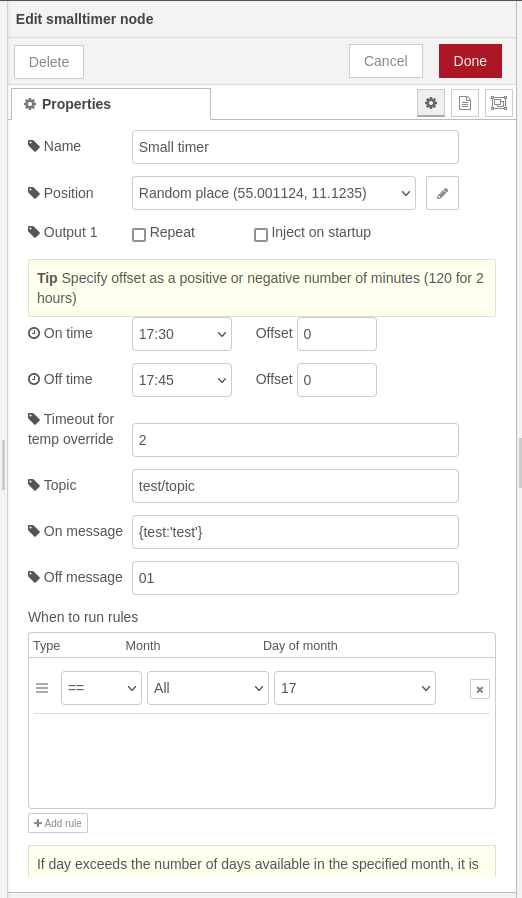
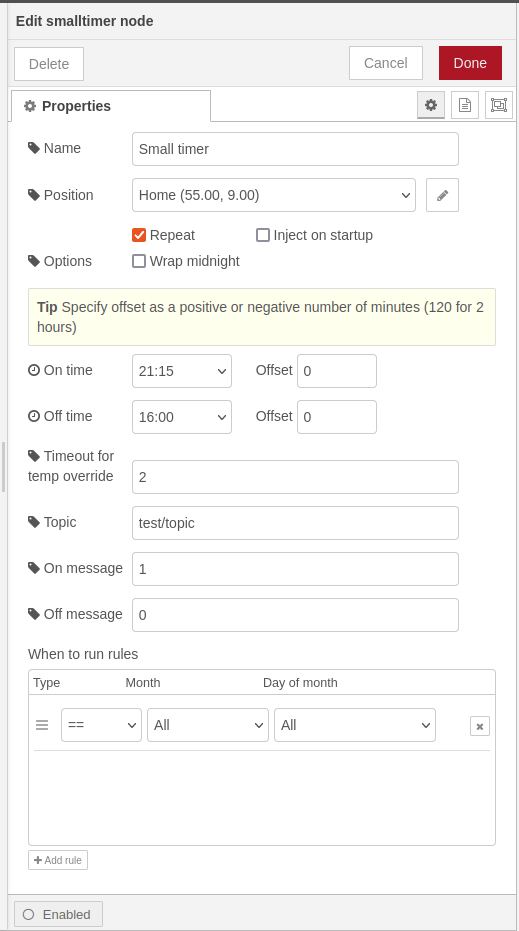
Add wrap midnight feature

Changed region(s): [[0.0, 0.0, 1.0, 1.0], [0.0308, 0.0, 0.3083, 0.0312], [0.0308, 0.1559, 0.185, 0.2183]]

diff --git a/src/nodes/small-timer.html b/src/nodes/small-timer.html
@@ -75,12 +75,18 @@
         <input type="text" id="node-input-position" placeholder="Position">
     </div>
     <div class="form-row">
-        <label><i class="fa fa-tag"></i> Output 1</label>
-        <input type="checkbox" style="width: auto !important" id="node-input-repeat">
-        <label for="node-input-repeat"> Repeat</label>
-        <input type="checkbox" style="width: auto !important" id="node-input-injectOnStartup">
-        <label for="node-input-injectOnStartup"> Inject on startup</label>
+        <label><i class="fa fa-tag"></i> Options</label>
+        <div style="display:inline-block;" class="small-timer-options">
+            <div>
+                <label><input type="checkbox" id="node-input-repeat"> Repeat</label>
+                <label><input type="checkbox" id="node-input-injectOnStartup"> Inject on startup</label>
+            </div>
+            <div>
+                <label><input type="checkbox" id="node-input-wrapMidnight" > Wrap midnight</label>
+            </div>
+        </div>
     </div>
+
     <div class="form-tips">
         <b>Tip</b> Specify offset as a positive or negative number of minutes (120 for 2 hours)
     </div>
@@ -124,6 +130,25 @@
         If day exceeds the number of days available in the specified month, it is considered to be the last day of the month.<br/>
     </div>
 </script>
+<style>
+    .small-timer-options label {
+        -webkit-user-select: none;
+        -khtml-user-select: none;
+        -moz-user-select: none;
+        -ms-user-select: none;
+        user-select: none;
+        vertical-align: baseline;
+        width: 120px !important;
+        white-space: nowrap;
+    }
+    .small-timer-options input {
+        width: auto !important;
+        vertical-align: baseline !important;
+    }
+    .form-tips {
+        margin-bottom: 8px;
+    }
+</style>
 
 <script type="text/javascript">
 (function() {
@@ -177,7 +202,7 @@
             repeat: {value: false, required: true},
             rules: {value: [{type: 'include', month: 0, day: 0}]},
             timeout: {value: 1440, required: true},
-            wrapMidnight: {value: false, required: false},
+            wrapMidnight: {value: true, required: false},
         },
         icon: "timer.png",
         inputs: 1,

diff --git a/src/lib/small-timer-runner.spec.ts b/src/lib/small-timer-runner.spec.ts
@@ -37,7 +37,8 @@ describe('small-timer/time-runner', () => {
         const stubbedTimeCalc = {
             getMinutesToNextStartEvent: sinon.stub(),
             getMinutesToNextEndEvent: sinon.stub(),
-            getOnState: sinon.stub().returns(false)
+            getOnState: sinon.stub().returns(false),
+            noOnStateToday: sinon.stub().returns(false)
         }
         return {
             send,
@@ -50,7 +51,22 @@ describe('small-timer/time-runner', () => {
         }
     }
 
-    it('should handLE temporary on and use timeout to calculate next change', () => {
+    it('should handle no action today, due to negative on interval', () => {
+        const stubs = setupTest()
+        stubs.timeCalc.getMinutesToNextStartEvent.returns(10)
+        stubs.timeCalc.getMinutesToNextEndEvent.returns(20)
+        stubs.timeCalc.noOnStateToday.returns(true)
+
+        new SmallTimerRunner(stubs.position, stubs.configuration, stubs.node)
+
+        sinon.assert.calledWith(stubs.node.status, {
+            fill: 'yellow',
+            shape: 'dot',
+            text: 'No action today - off time is before on time'
+        })
+    })
+
+    it('should handle temporary on and use timeout to calculate next change', () => {
         const stubs = setupTest({
             timeout: 5
         })

diff --git a/src/lib/time-calculation.spec.ts b/src/lib/time-calculation.spec.ts
@@ -72,6 +72,7 @@ describe('small-timer/time-calculation', () => {
         expect(timeCalc.getOnState()).to.equal(true)
         expect(timeCalc.getMinutesToNextEndEvent()).to.equal(180)
         expect(timeCalc.getMinutesToNextStartEvent()).to.equal(22*60)
+        expect(timeCalc.noOnStateToday()).to.equal(false)
     })
 
     it('should not signal on, if off time is before on time', () => {
@@ -91,6 +92,7 @@ describe('small-timer/time-calculation', () => {
         expect(timeCalc.getOnState()).to.equal(false)
         expect(timeCalc.getMinutesToNextEndEvent()).to.equal(180)
         expect(timeCalc.getMinutesToNextStartEvent()).to.equal(22*60)
+        expect(timeCalc.noOnStateToday()).to.equal(true)
     })
 
     const testData: {startTime:number, endTime: number, wrap:boolean, expectedStart: number, expectedEnd: number }[] = [

diff --git a/src/lib/small-timer-runner.ts b/src/lib/small-timer-runner.ts
@@ -1,3 +1,4 @@
+/*eslint complexity: ["error", 13]*/
 import { Node, NodeStatusFill } from 'node-red'
 import { ISmallTimerProperties, Rule } from '../nodes/common'
 import { SmallTimerChangeMessage, ISmallTimerMessage } from './interfaces'
@@ -156,11 +157,14 @@ export class SmallTimerRunner {
         let fill: NodeStatusFill = 'yellow'
         const text: string[] = []
 
-        const activeToday = this.isDayOk()  || this.currentState
+        const activeToday = !this.timeCalc.noOnStateToday() && (this.isDayOk() || this.currentState)
 
         if (!activeToday) {
+            text.push('No action today')
+        }
 
-            text.push('No action today ')
+        if (this.timeCalc.noOnStateToday()) {
+            text.push('off time is before on time')
         }
 
         if (activeToday || this.override !== 'auto') {

diff --git a/src/lib/time-calculation.ts b/src/lib/time-calculation.ts
@@ -84,6 +84,15 @@ export class TimeCalc {
         return (currentTime > this.actualStart) && (currentTime < this.actualEnd)
     }
 
+    /**
+     * Check if we will have an on event today,
+     * returns false if wrapMidnight is false, and actualEnd is before actualStart
+     * @returns
+     */
+    public noOnStateToday(): boolean {
+        return !this.wrapMidnight && (this.actualEnd < this.actualStart)
+    }
+
     public eventCalculation(now = new Date()) {
         this.updateSunCalc(now)
         this.actualStart = this.lookupEventTime(this.startTime) + this.startOffset

diff --git a/README.md b/README.md
@@ -22,19 +22,28 @@ This is the key idea about the small timer, you can get it to do exactly that, t
 
 Start by configuring a position for your node to do sunrise/sunset etc. calculation for. this doesn't need to be super exact, you can use google maps to figure out the latitude / longitude for your site.
 
-The **repeat** and **inject on startup** checkboxes configures the node to either repeat the output every minute (default is that it only emits a message on state change), and if you want to inject a message upon startup / redeploy of your node red flow.
+### Option checkboxes
+The **repeat** and **inject on startup** checkboxes configures the node to either repeat the output every minute (default is that it only emits a message on state change), and if you want to inject a message upon startup / redeploy of your node red flow. 
 
-**On time** and **Off time** is when the magic happens. Set it to the desired on time and off time using the dropdowns. You can also set an offset (positive or negative), which will add (or subtract) the specified number of minutes to the calculated time, so you can set the light to turn on 30 minutes _after_ sunset, as an example
+**Wrap midnight** will wrap on time around midnight, if on time is 23:00 and off time is 02:00, checking this will turn on before midnight, and off after. If unchecked, it will ignore this. Say, you have a fixed on time at 06:00 in the morning, and a dynamic off time tracking sunrise. When the sunrise is before 06:00 you do not want it to turn on the porch light, you might not want to have the light turned on.
 
-**Timeout** is used when triggering an override of the current state, after set time the node will switch back to whatever the output state should be at the given time
+### On / Off time
+This is when the magic happens. Set it to the desired on time and off time using the dropdowns. You can also set an offset (positive or negative), which will add (or subtract) the specified number of minutes to the calculated time, so you can set the light to turn on 30 minutes _after_ sunset, as an example
 
-**Topic** is the topic parameter of the msg that is sent out on events. This can be used to send on to mqtt for example.
+### Timeout 
+Used when triggering an override of the current state, after set time the node will switch back to whatever the output state should be at the given time
 
-**On message** the payload of the output message is set to this value during on
+### Topic
+Topic parameter of the msg that is sent out on events. This can be used to send on to mqtt for example.
 
-**Off message** the payload of the output message is set to this value during off
+### On message
+Payload of the output message is set to this value during on
 
-**When to run rules** This can be used to configure what days the rule should / should not run. 
+### Off message
+Payload of the output message is set to this value during off
+
+### When to run rules
+This can be used to configure what days the rule should / should not run. 
 
 **==** is include, this specifies days where the rule should run
 
